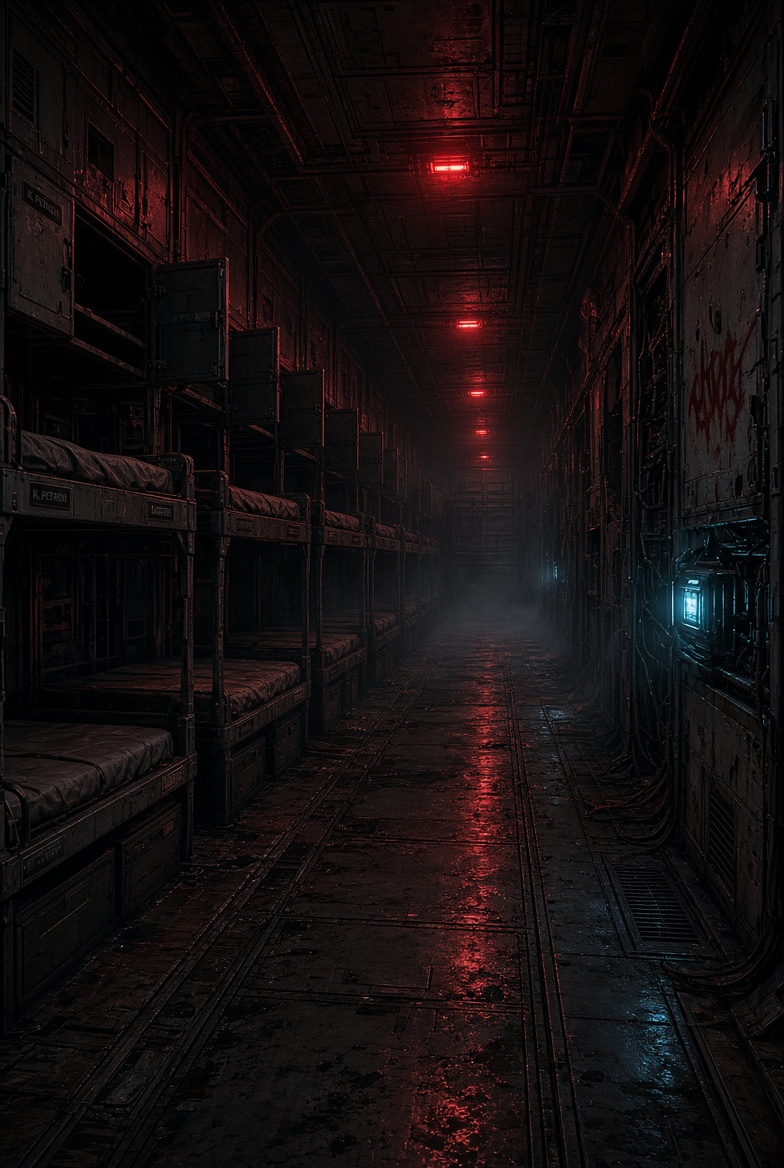
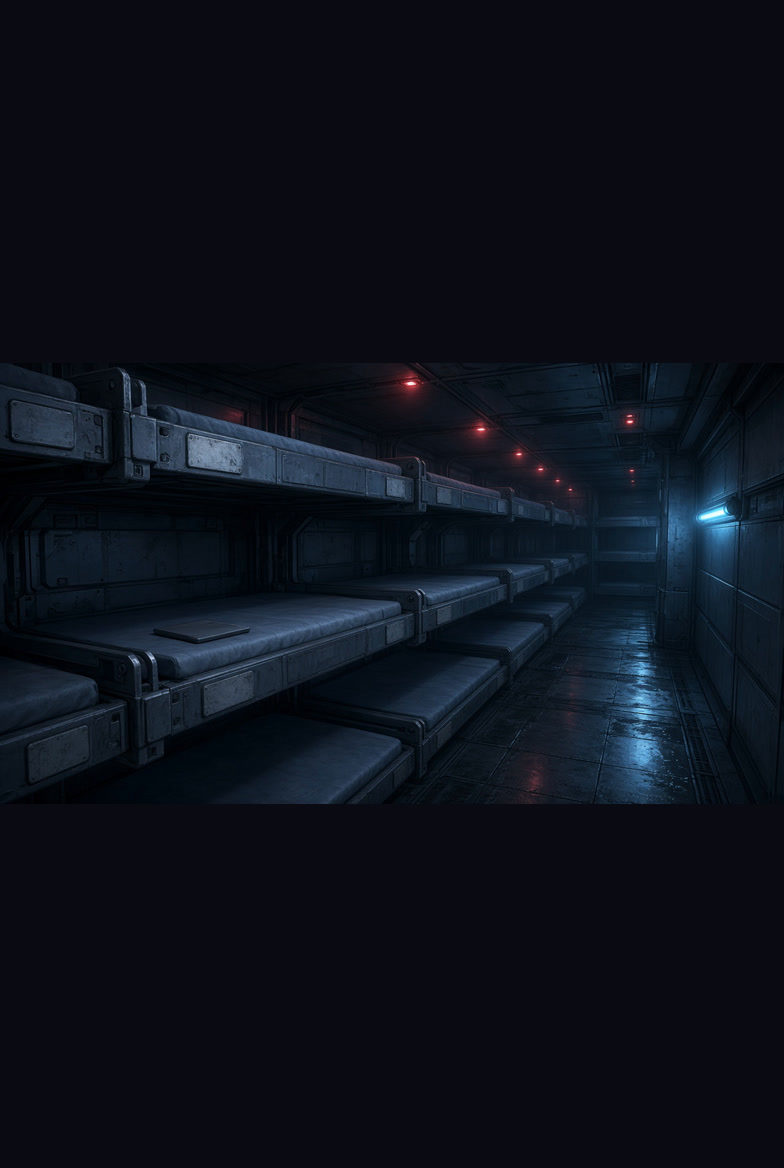
SUN-EMPTY-BERTHS-WIRE-01 — wire empty_berths.jpg (Canon PASS)
Owner APPROVED + Canon PASS. Replace images/empty_berths.jpg (source PNG hex ff9fec91549509f5). Update IMAGES_TREE to 3acec2a0f1cddadd3e9243c1427fda655600954a. No 0.36 / no Netlify in this PR.

diff --git a/docs/SUN_EMPTY_BERTHS_WIRE_01.md b/docs/SUN_EMPTY_BERTHS_WIRE_01.md
@@ -1,0 +1,13 @@
+# SUN-EMPTY-BERTHS-WIRE-01
+
+Wired owner-APPROVED + Canon-PASS plate for `empty_berths` → `images/empty_berths.jpg`.
+
+- hex16 (source PNG): `ff9fec91549509f5`
+- canvas: 784×1168
+- brief#: 4
+- fail fixed: bunk nameplates/graffiti / legible text (Fable brief#4)
+- tip base: `6af74079c8fccd250f3d346a1af4bf9aa82954eb`
+- IMAGES_TREE: `3acec2a0f1cddadd3e9243c1427fda655600954a`
+- also shared by scene key `berths_manifest` (same path)
+
+No 0.36 mint. NOT_CERTIFIED remint separate.
